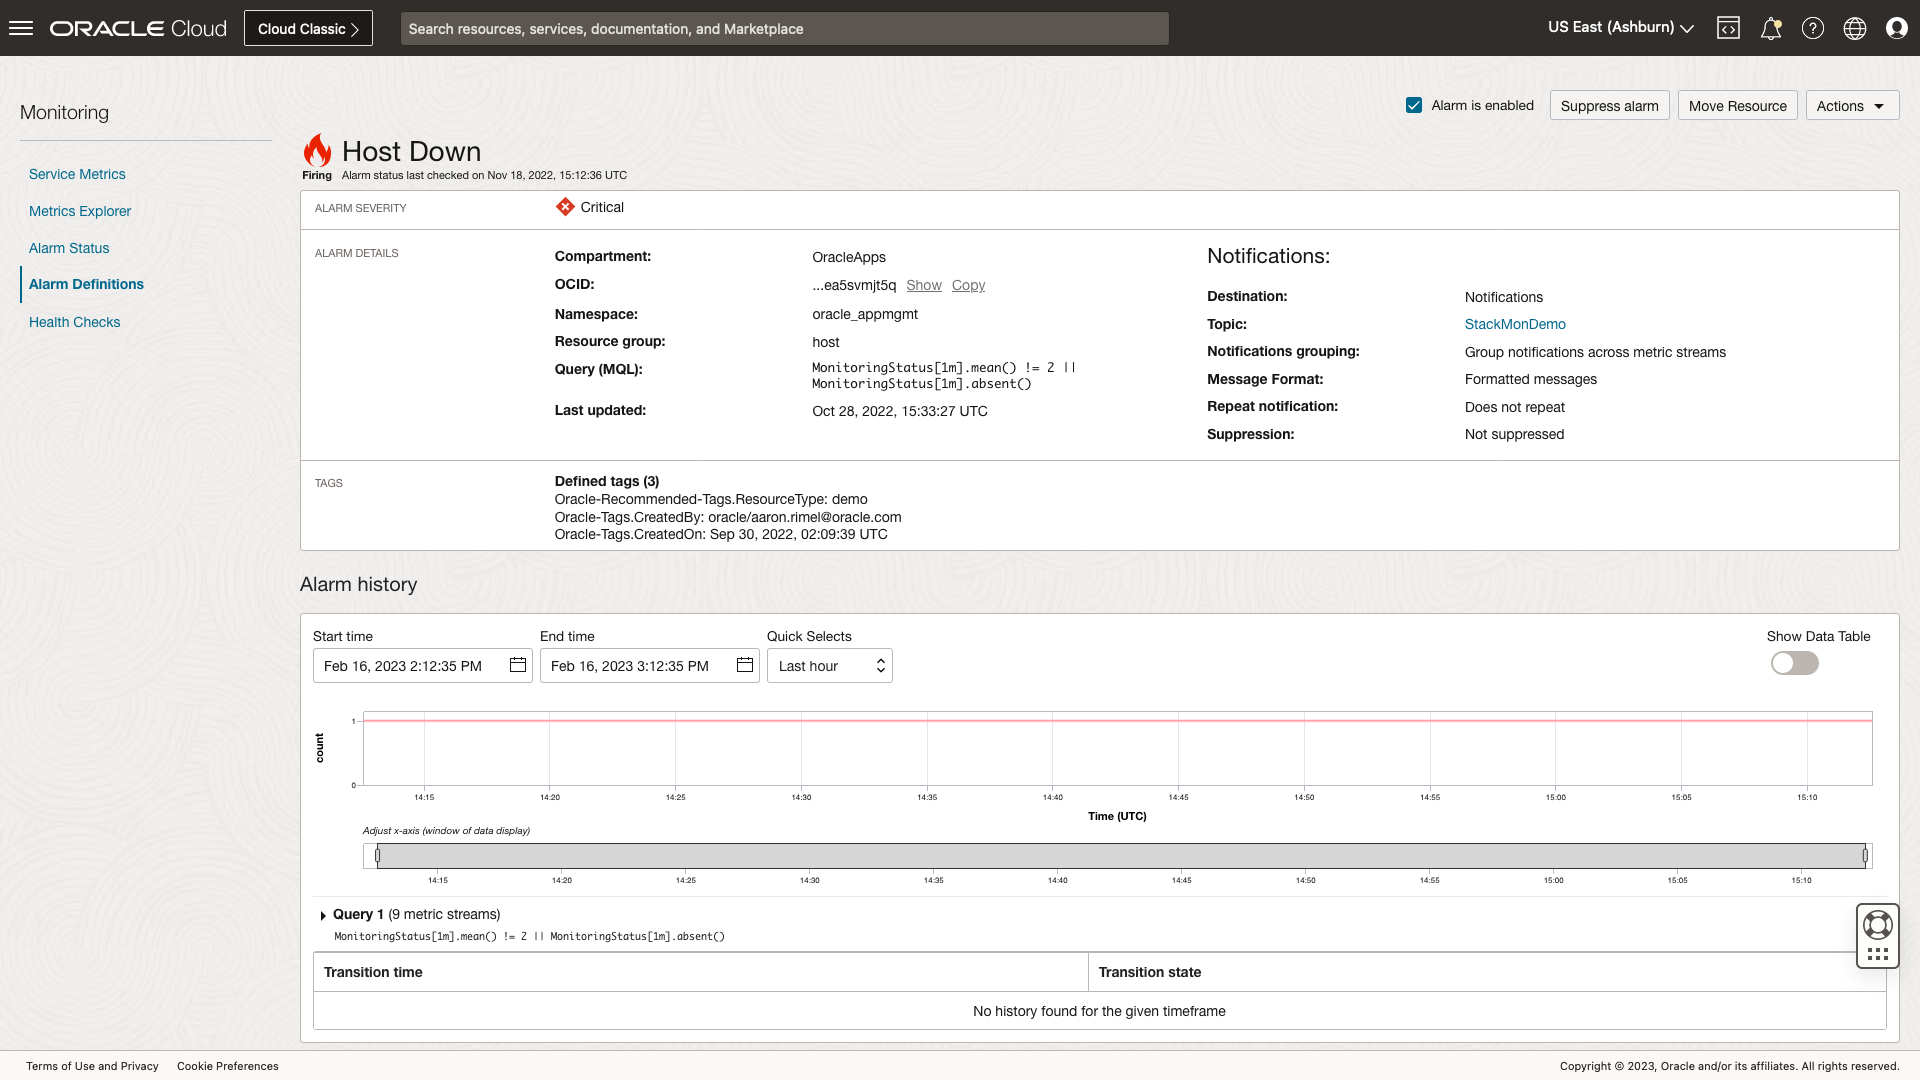
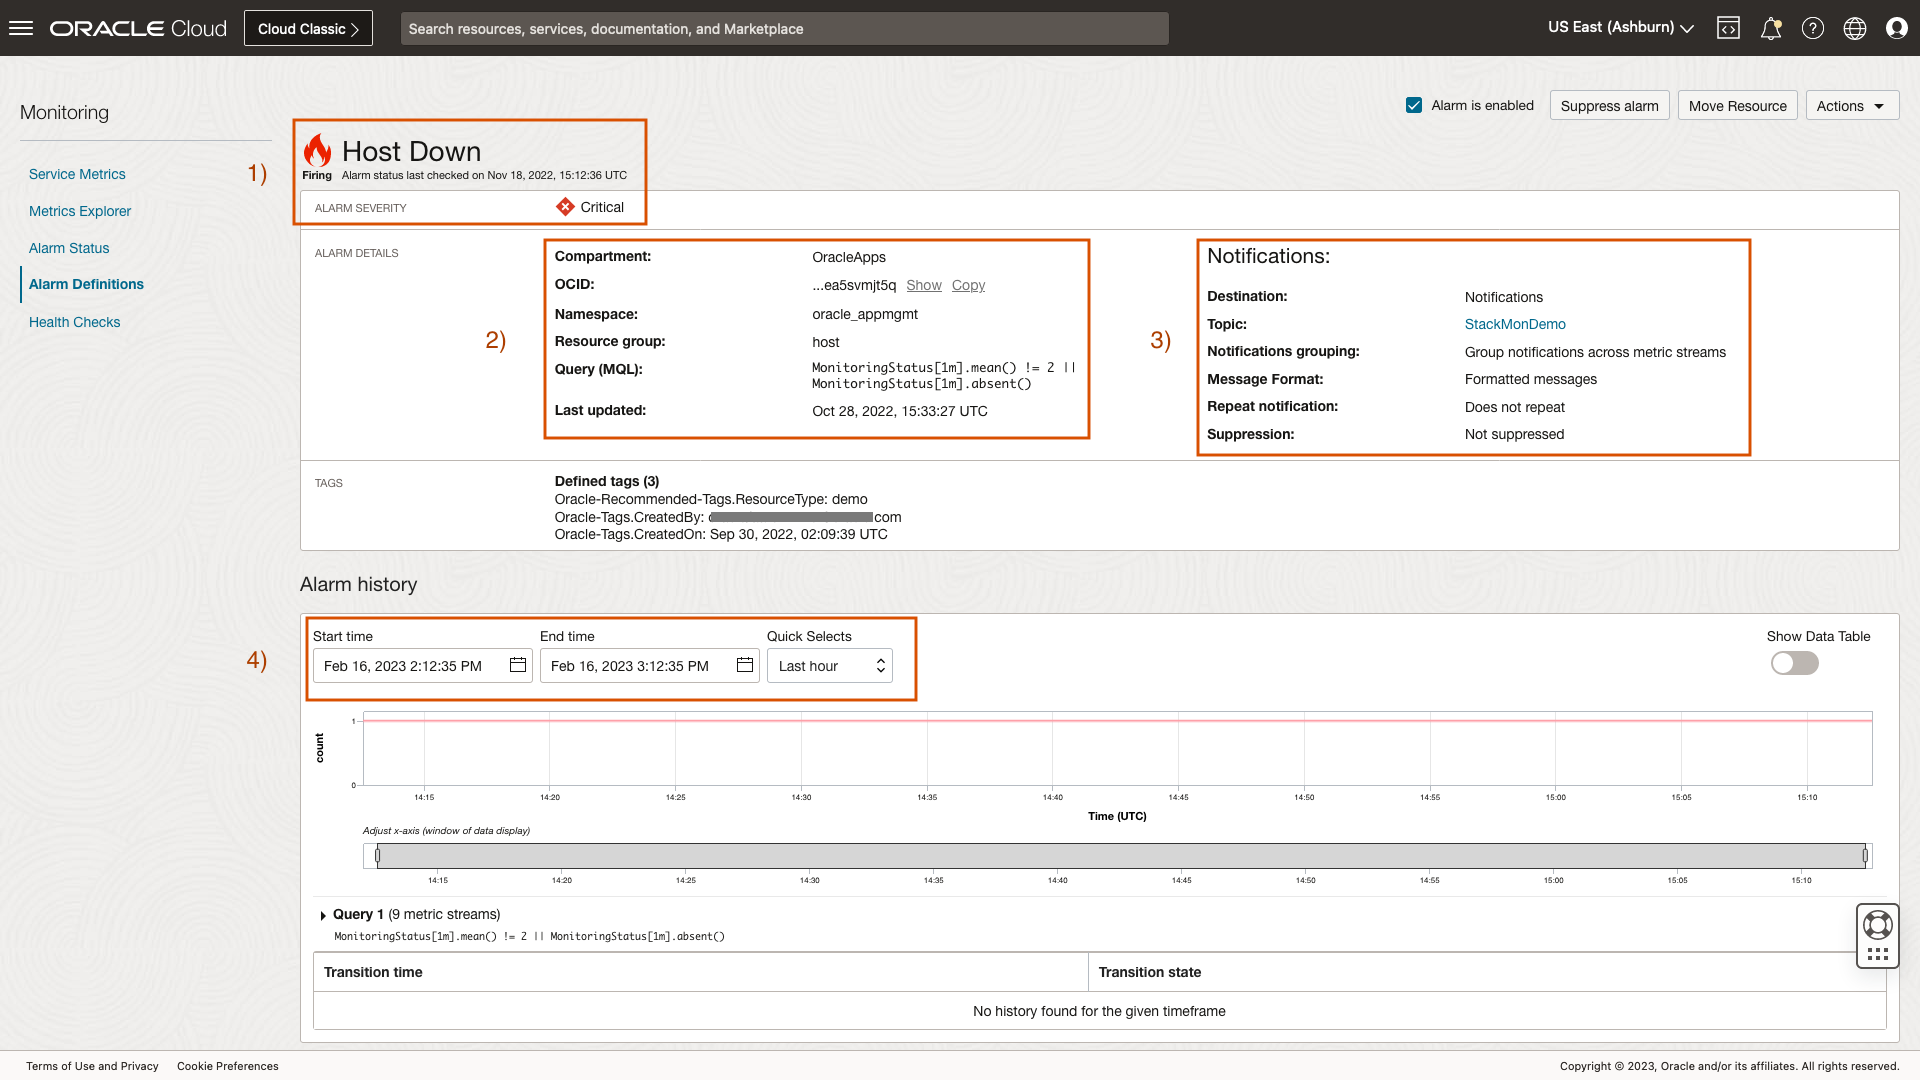
Commiting some changes around time and alarm investigation

diff --git a/oci-stack-monitoring-fundamentals/enterprise-summary/enterprise-summary.md b/oci-stack-monitoring-fundamentals/enterprise-summary/enterprise-summary.md
@@ -4,7 +4,7 @@
 
 In this workshop, you will learn how the Enterprise Summary can be capitalized to monitor the status and performance of an application and its underlying tech stack. You will understand how to review the overall availability status of all resources, identify the resources that are down, and review the open alarms. Additionally, you will identify the list of Oracle Databases in a Not Reporting state. You will further learn how to review performance metrics of the various tiers (e.g. E-Business Suite, PeopleSoft, WebLogic Server, Oracle Database, and Host). Finally, because you are monitoring each tier, you will see how to interact with the Enterprise Summary UI to dynamically view other metrics. 
 
-Estimated time: 10 minutes
+Estimated time: 20 minutes
 
 ### Objectives
 
@@ -89,6 +89,17 @@ Estimated time: 10 minutes
  	Clicking an alarm name will open a new tab in your browser to investigate and work the alarm within Oracle Cloud Infrastructure's Monitoring Service.
 
  	![Oracle Cloud Monitoring Service, showing details of the host down alarm](images/3-3-ent-sum.png " ")
+
+ 	With the new browser tab open, let's review this example alarm. The **Alarm Definition** provides critical details into the firing state for this specific metric. 
+ 	1) At the top of the page, we can see the name of the alarm, Host Down, and the current status of the alarm is **Firing**, and the severity is **Critical**. 
+ 	
+ 	2) Moving down the page, we can identify the compartment where the alarming resource resides, OracleApps. The OCID of the resource is provided to help identify the offending resource. To identify the resource in a firing state, the OCID can copied and placed into the OCI search bar for easy identification and navigation. Next we see the **Namespace**. Stack Monitoring places all metric data into the **oracle_appmgmt** namespace. This is true for all resource types except Oracle Database. Oracle Database metrics are stored in the **oracle_oci_database** namespace. Stack Monitoring utilizes **Resource groups** to organize the large number of metrics provided out-of-the-box. Examples of Resource groups include: host, apache_tomcat, weblogic_j2eeserver, and elastic_search to name a few. 
+ 	
+ 	3) The OCI Monitoring Service provides a variety of ways to notify users an alarm is firing. In this example, we can see this alarm is defined to notify users within the Topic, StackMonDemo. A topic is a grouping of similar notification types, such as a list of email addresses. Examples of other Topic subscription protocols include Slack, PagerDuty, or a custom function to name a few. 
+ 	
+ 	This particular alarm is configured to group notifications across metric streams. Grouping notifications within a metric stream reduces the number of alarms a user would receive. Using this alarm as an example, **Host Down**, was configured to fire if any host within this compartment, OracleApps, goes down. The members of the Topic Stack MonDemo notification group will be notified via email. Should more than one host go down, a single email will be sent to each member of the group, and the notification and alarm status page will denote multiple OCIDs in a firing state.
+
+ 	4) By default when the **Alarm Definition** browser tab opens, the last hour of firing history will be displayed. The time period can easily be adjusted using the drop-down.
 
  	Once you have reviewed the alarm, close the browser tab to return to Stack Monitoring. 
 

diff --git a/oci-stack-monitoring-fundamentals/introduction/introduction.md b/oci-stack-monitoring-fundamentals/introduction/introduction.md
@@ -8,7 +8,7 @@ In this workshop learn how to identify application outages across your enterpris
 
 Finally, get familiar with Stack Monitoring's home pages and how to triage open alarms and view metric performance over time. Utilize Stack Monitoring's application topology to identify and troubleshoot issues across an application stack. Leverage Stack Monitoring's **Stack View** to get a holistic perspective of key performance metrics across an entire application, for this workshop we will use an E-Business Suite application.
 
-Estimated time for this workshop: 30 minutes
+Estimated time for this workshop: 60 minutes
 
 ### About Oracle Cloud Infrastructure Stack Monitoring
 
@@ -29,6 +29,7 @@ In this workshop, the following topics will be covered:
   - Review application topology
   - Navigate across an application stack
   - Review key vital signs of an application's overall health using the Stack View
+* Putting it all together
 
 ### Prerequisites
 
@@ -40,4 +41,4 @@ In this workshop, the following topics will be covered:
 - **Contributors** - Ana McCollum, Senior Director of Product Management, Enterprise and Cloud Manageability,
 - Steven Lemme, Senior Principal Product Manager,
 Anand Prabhu, Sr. Member of Technical Staff
-- **Last Updated By/Date** - Aaron Rimel, February 2023
+- **Last Updated By/Date** - Aaron Rimel, May 2023
